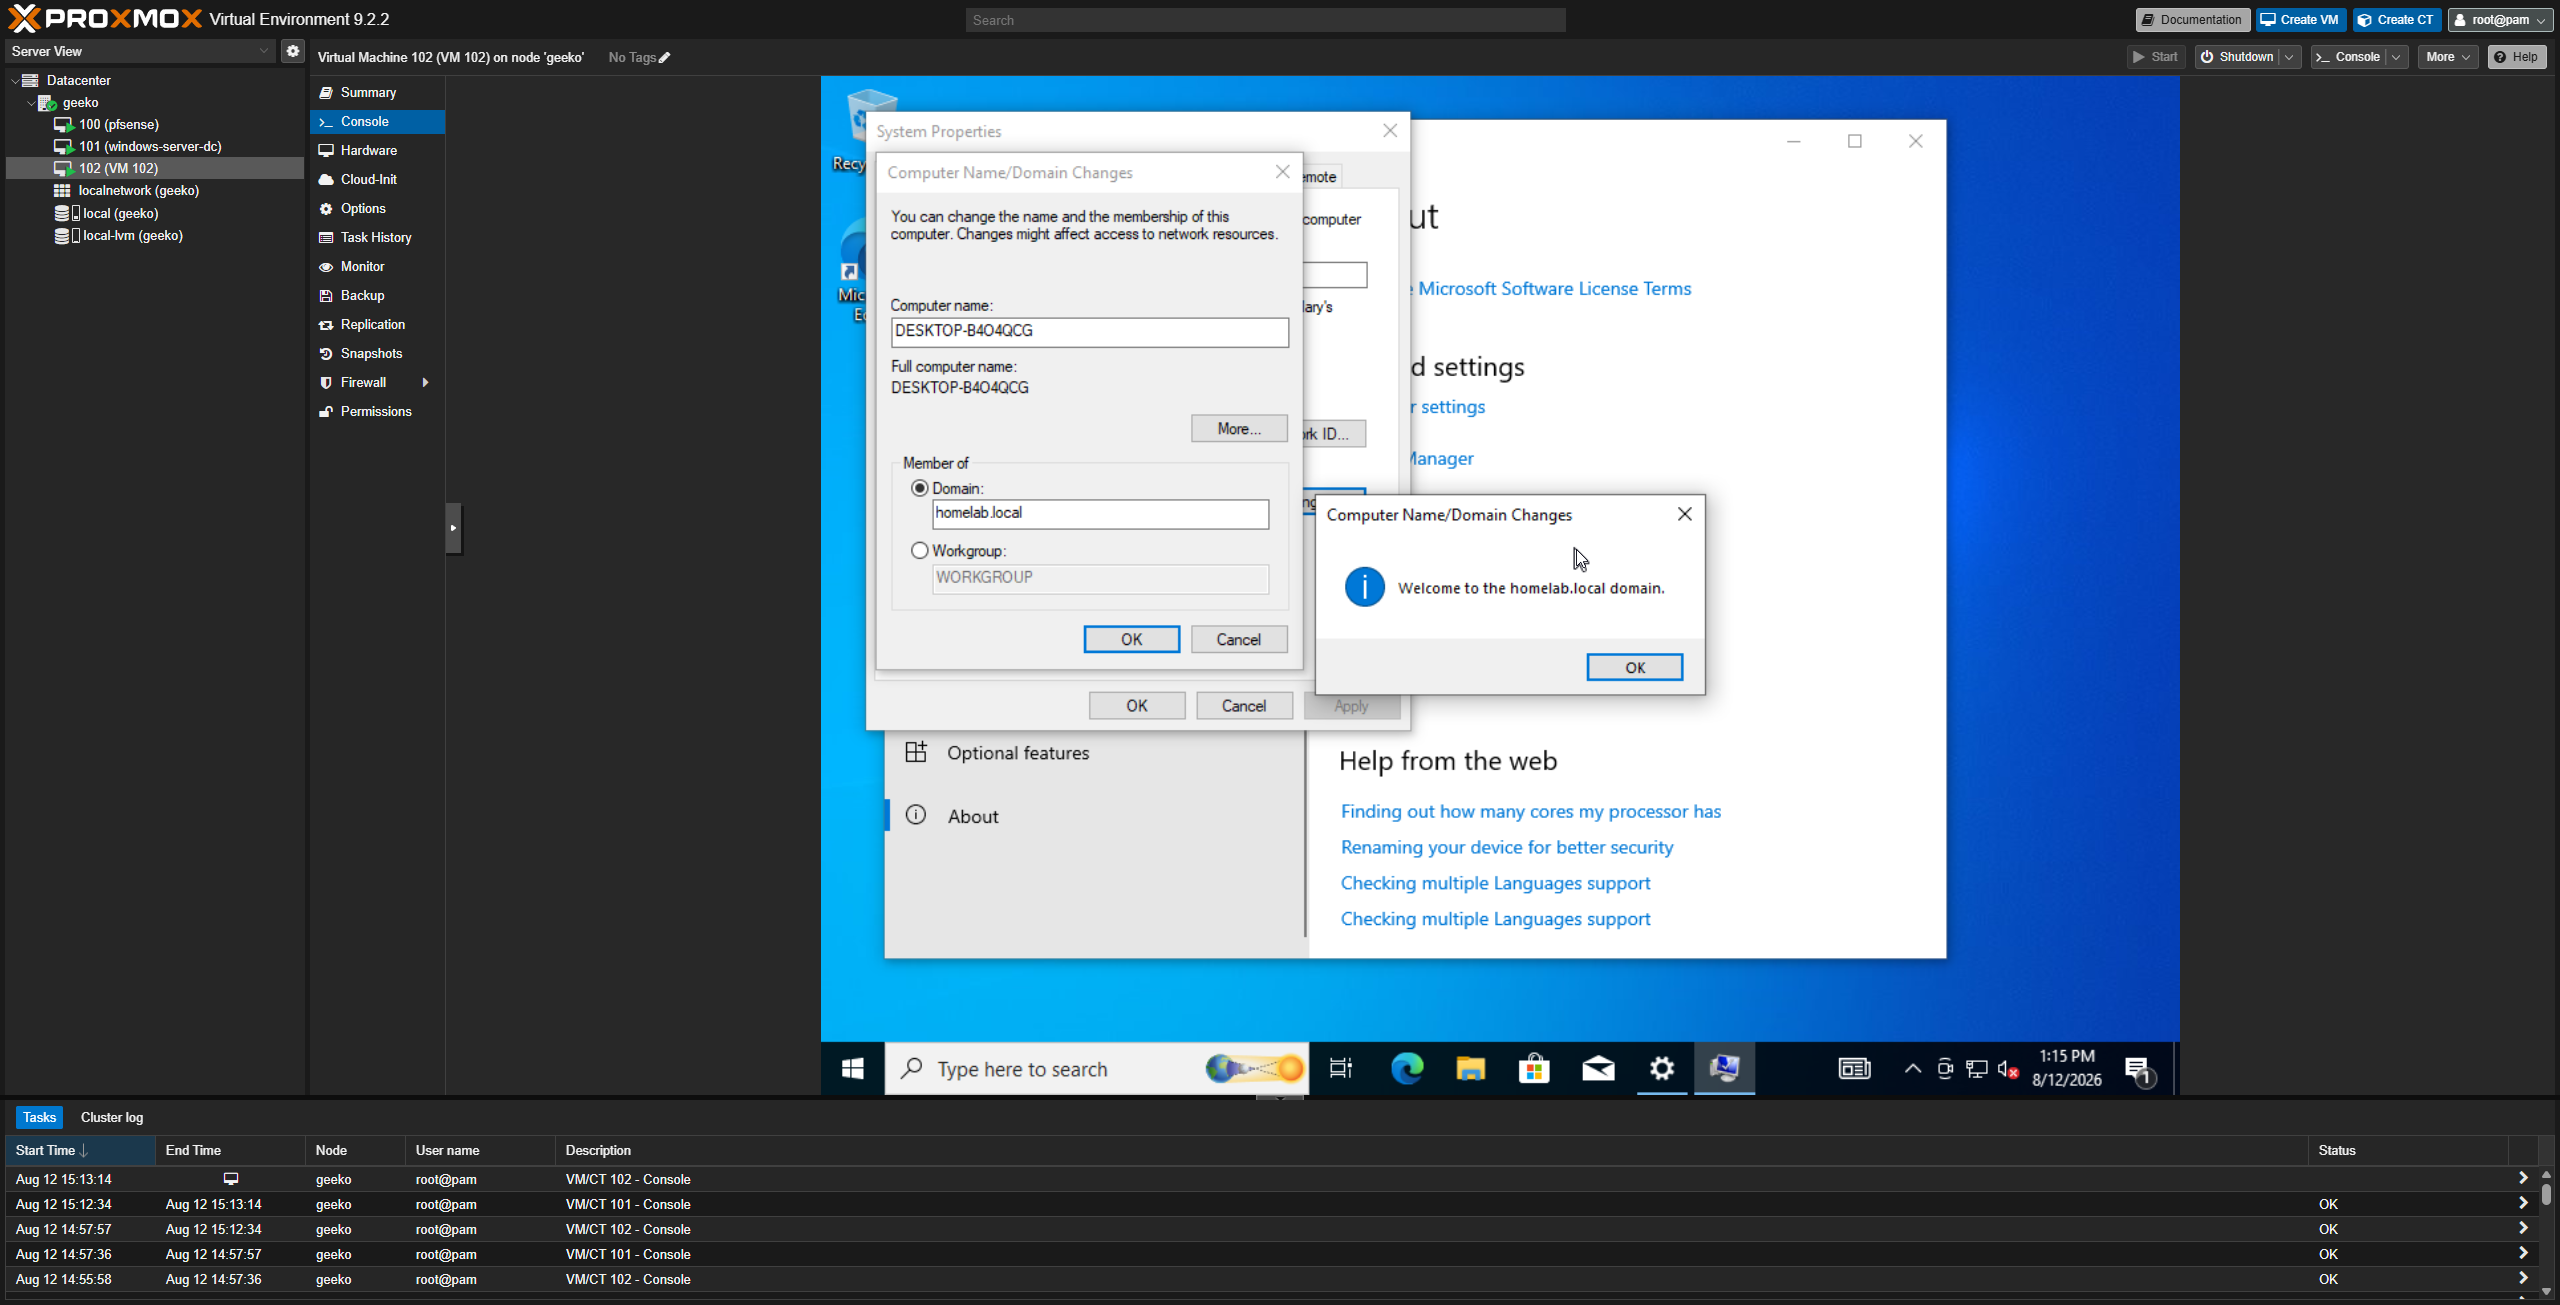
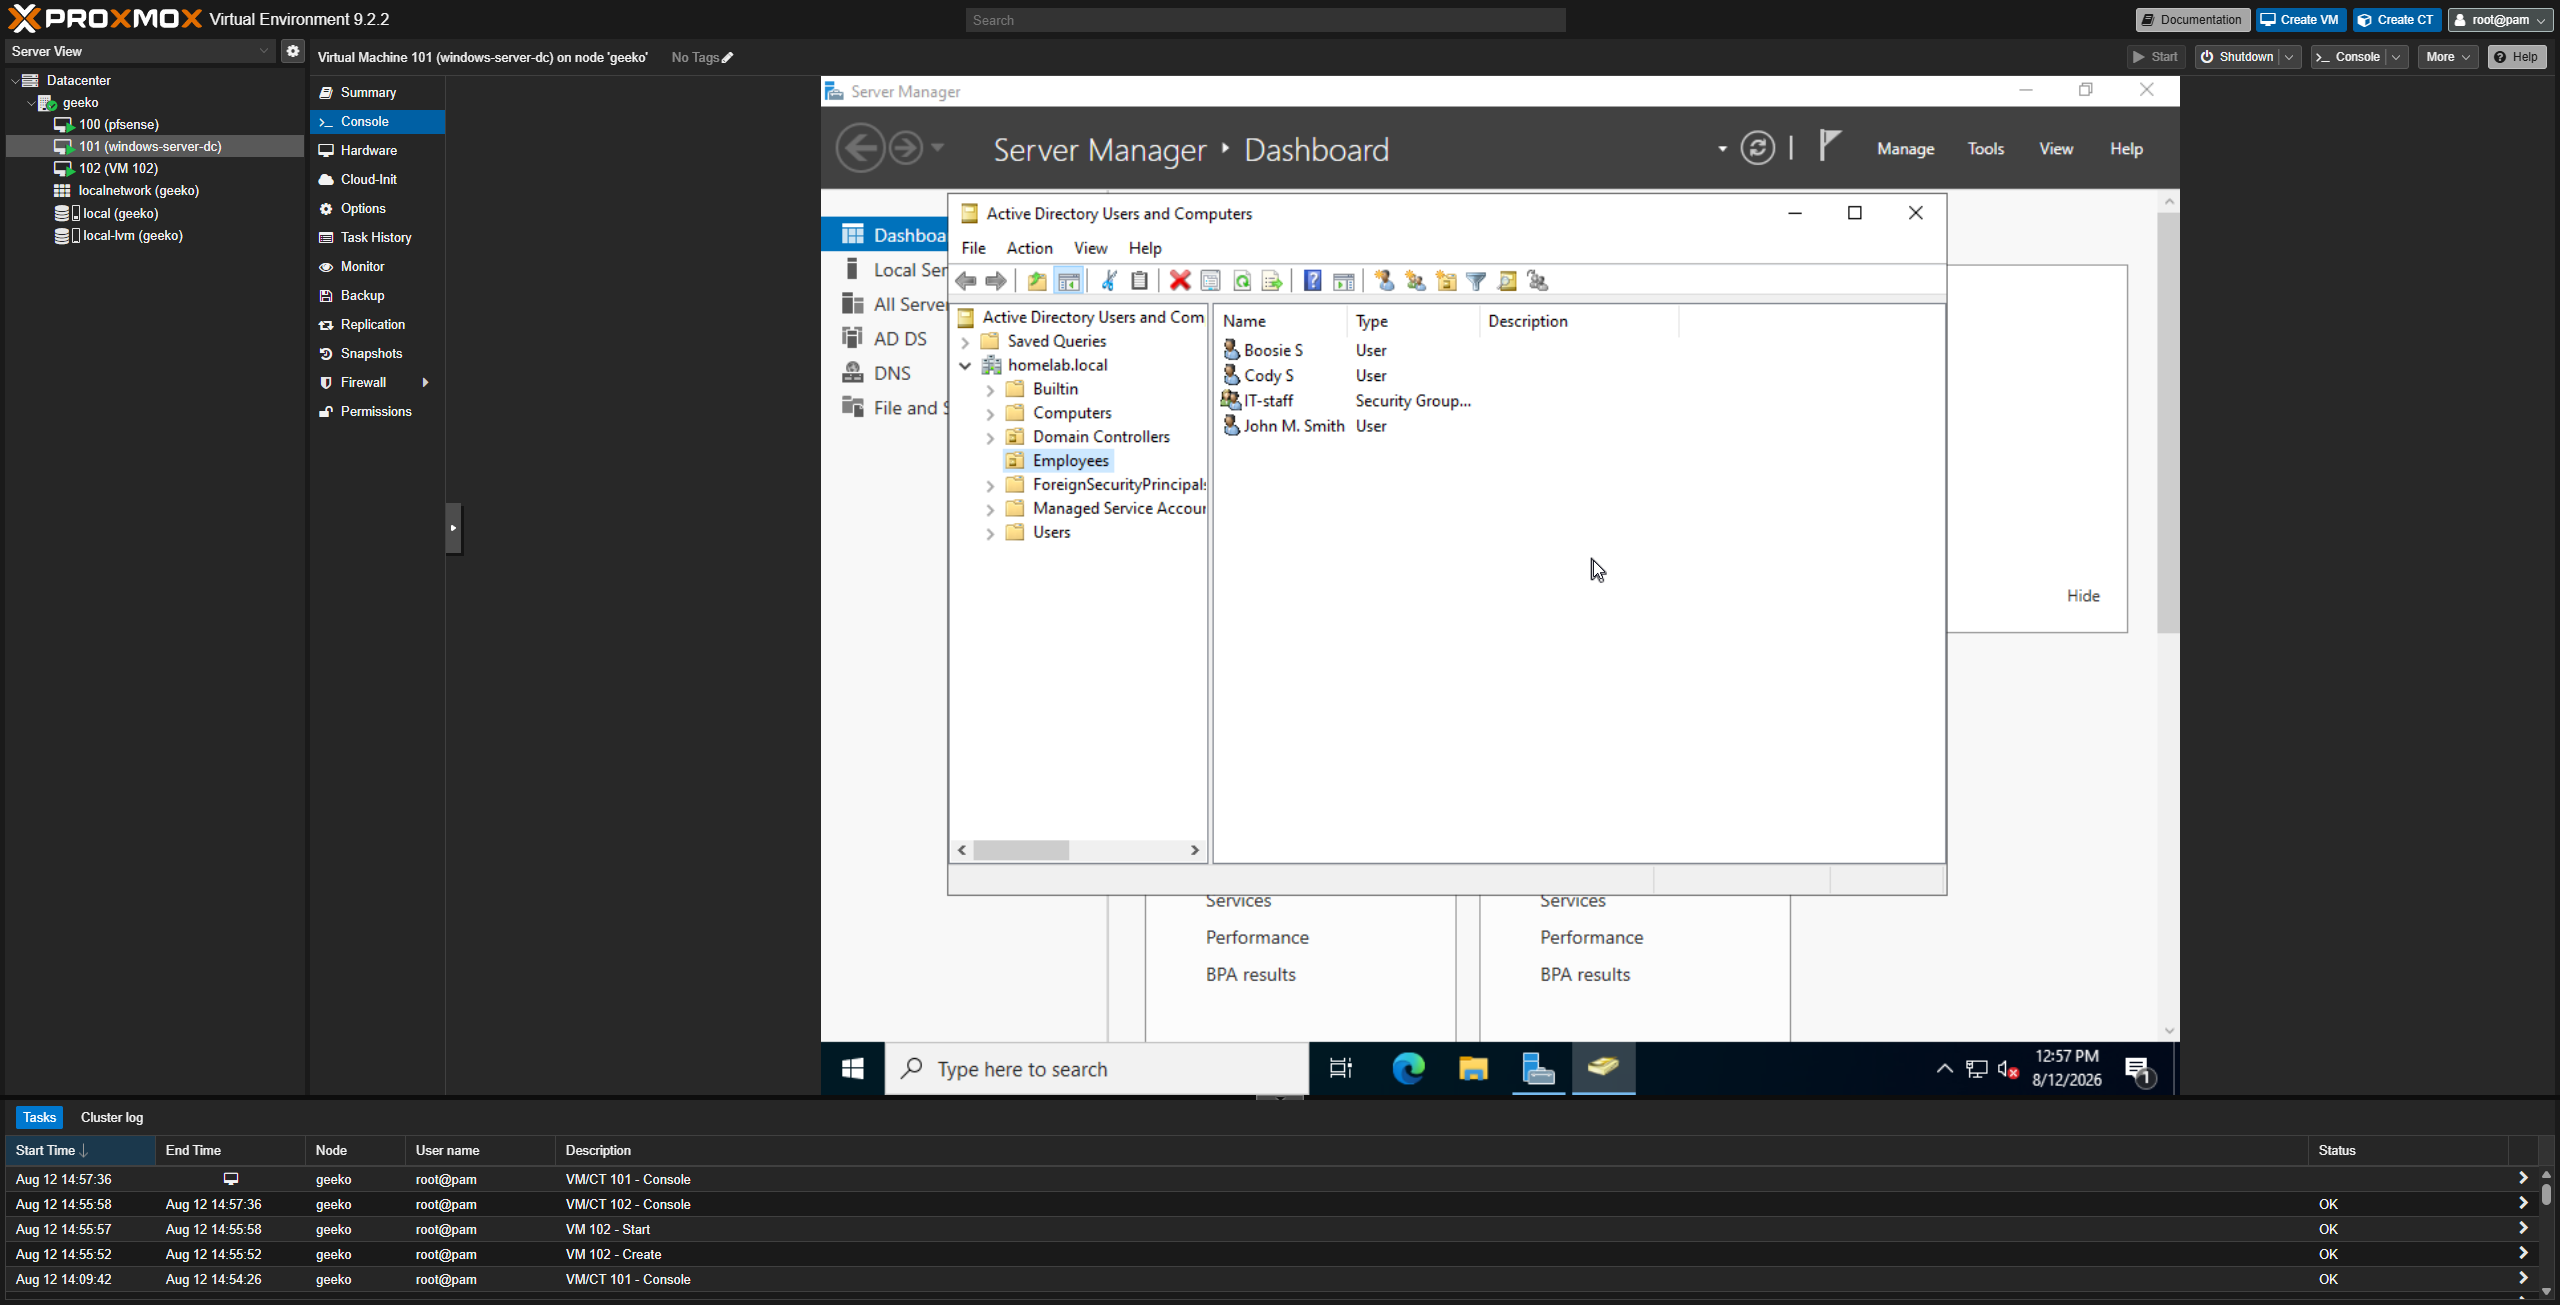
Add Wazuh SIEM Deployment + small fixes

diff --git a/siem-deployment/README.md b/siem-deployment/README.md
@@ -1,0 +1,121 @@
+# SIEM Deployment - Wazuh
+
+Deploying Wazuh as the SIEM for my homelab, providing centralized log collection and detection capability for the Windows Server domain controller and Windows 10 client.
+
+## VM Creation
+
+Created a VM in Proxmox with:
+- 2 cores, 4GB RAM, 60GB disk
+- Network interface on 'vmbr1' (isolated internal LAN)
+- Ubuntu Server 24.04 LTS as the base OS
+
+## Problem: Disk full during install
+
+The Wazuh all-in-one installer failed partway through with 'No space left on device', despite allocating a 50GB disk originally to the VM.
+
+### Diagnosis 
+
+Checked actual filesystem usage:
+
+<img src="error.png" width="600">
+
+Found the Ubuntu's guided LVM installer had only allocated half the disk to the root logical volume, leaving the rest as unused free space within the volume group
+
+### Fix
+
+Extended the logical volume to use the full disk and resized the filesystem using:
+
+```bash
+sudo lvextend -l +100%FREE /dev/ubuntu-vg/ubuntu-lv
+sudo resize2fs /dev/mapper/ubuntu--vg-ubuntu--lv
+```
+
+Confirmed the fix - root filesystem now showed the full disk size.
+
+## Problem: Leftover processes blocking reinstall
+
+Attempting to reinstall on the same VM failed with:
+
+<img src="port-error.png" width="600">
+
+Leftover processes from the earlier failed install were still holding those ports open.
+
+### Diagnosis
+
+Confirmed the stuck processes:
+
+```bash
+sudo lsof -i :1515
+sudo lsof -i :55000
+```
+
+### Fix
+
+Killed the stuck processes, then did a full package purge and reboot
+
+<img src="lsof-ports.png" width="600">
+
+## Problem: Corrupted package state after repeated failed installs
+
+Even after the reboot, the next install attempt failed with '/var/ossec/bin/wazuh-keystore: No such file or directory' and the Wazuh manager failed to start. Given the VM had now been through multiple partial installs and rollbacks, decided the package state was too inconsistent to keep patching.
+
+### Fix
+
+Deleted the VM entirely and rebuilt it fresh with 60GB disk - this time manually verifying the LVM allocation showed the full amount before proceeding with install, rather then discovering the problem mid-install again.
+
+## Installation
+
+With a clean VM and correctly sized disk, ran the Wazuh installer successfully:
+
+<img src="installed.png" width="600">
+
+## Problem: Dashboard unreachable from my desktop
+
+Could reach the Wazuh dashboard from other VMs on the isolated LAN, but not directly from my desktop browser.
+
+<img src="timed-out-page.png" width="600">
+
+### Diagnosis
+
+Ran a ping test to pfesense's own LAN IP and other lab devices, all failed, even though these had worker before. Traced this back to resetting the pfsense admin password through the console menu, which triggered a full factory reset instead of just a password reset, wiping the WAN/LAN configuration.
+
+Reconfigured pfsense through the setup wizard, restoring the original WAN (DHCP) and LAN (10.10.10.1/24) settings.
+
+### Fix, part 1: WAN Firewall rule
+
+Added a static route on my desktop pointing to pfsense's WAN address:
+
+```bash
+route add 10.10.10.0 mask 255.255.255.0 192.168.68.67 - p
+```
+
+Then added a firewall rule on pfsense's WAN interface to allow traffic from my home network through to the isolated LAN:
+- Action: Pass
+- Interface: WAN
+- Protocol: Any
+- Source: Network, 192.168.68.0/22
+- Destination: Any
+
+This allowed ping traffic through, but the dashboard still would not load in my desktop browser.
+
+<img src="firewall-rule.png" width="600">
+
+### Fix, part 2: reply-to routing
+
+Traced the remaining issue to pfsense's default "reply-to" behavior on WAN rules, which forces return traffic back out the WAN gateway instead of routing iot normally. Disabled this under System > Advanced > Firewall & NAT, which resolved the issue completely. Confirmed with a direct port test:
+
+```bash
+Test-NetConnection -ComputerName 10.10.10.104 -Port 443
+```
+
+Successfully reached the dashboard directly from my desktop browser afterward.
+
+<img src="wazuh.png" width="600">
+
+## Deploying Agents
+
+Used the Wazuh dashboard's "Deploy New Agent" wizard to generate install commands for each Windows endpoint.
+- Windows Sever (domain controller)
+- Windows 10 client
+
+<img src="agent-deploy.png" width="600">

diff --git a/README.md b/README.md
@@ -11,9 +11,13 @@ Currently pursuing my BS in Cybersecurity and Information Assurance at WGU, targ
 - Network: Proxmox bridges (vmbr0 WAN / vmbr1 isolated LAN), pfsense as gateway
 
 ## Projects
+- [x] [Proxmox Install](./proxmox-install/)
 - [x] [pfsense Firewall Setup](./pfsense-firewall-setup/)
 - [x] [Active Directory Lab](./active-directory-lab/)
-- [ ] SIEM Deployment
+- [x] [SIEM Deployment](./siem-deployment/)
+- [ ] Attack & Detection Lab (Kali vs. Wazuh)
+- [ ] Windows Event Log Tuning
+- [ ] Sample Incident Response Writeup
 
 ## Contact
 - [LinkedIn](https://www.linkedin.com/in/cody-sumner-3330b32a8/)
